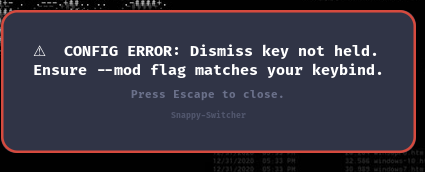
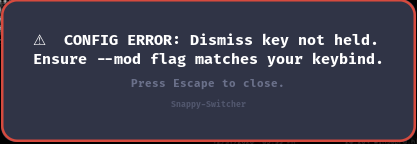
chore: release v4.0.0

diff --git a/src/main.c b/src/main.c
@@ -1,4 +1,4 @@
-/* src/main.c - Snappy Switcher Daemon (v2.0) */
+/* src/main.c - Snappy Switcher Daemon (v4.0) */
 #define _POSIX_C_SOURCE 200809L
 
 #include "backend.h"
@@ -949,7 +949,7 @@ static int run_daemon(const char *config_path) {
 }
 
 static void print_help(const char *prog) {
-  printf("Snappy Switcher v3.3.0 - A modular, Hyprland-driven window switcher "
+  printf("Snappy Switcher v4.0.0 - A modular, Hyprland-driven window switcher "
          "for Wayland\n\n");
   printf("Usage: %s [OPTION] | <command> [--mod <key>] [--workspace] "
          "[--silent] [--linear]\n\n",

diff --git a/README.md b/README.md
@@ -360,6 +360,40 @@ name = catppuccin-mocha.ini
 ```
 > If name doesnt match the file you made or left blank, it will switch to a **default** *ugly* theme
 
+<details>
+<summary><b>My Conf</b></summary>
+
+```ini
+[general]
+mode = context
+follow_monitor = true
+show_workspace_badge = true
+sticky_mode = false
+[theme]
+name = stormlight.ini
+border_width = 2
+corner_radius = 15
+[layout]
+card_width = 145
+card_height = 135
+card_gap = 10
+padding = 10
+max_cols = 5
+icon_size = 57
+icon_radius = 15       
+error_font_size = 11  
+[icons]
+theme = Tela-dracula
+fallback = Tela-dracula
+show_letter_fallback = true
+[font]
+family = FiraCode Nerd Font
+weight = Bold
+title_size = 10
+icon_letter_size = 24
+```
+</details>
+
 **[Full Configuration Documentation →](docs/CONFIGURATION.md)**
 
 ---
@@ -405,7 +439,10 @@ snappy-switcher next --silent --linear
 
 ### Config Error Banner
 
-If the `--mod` value doesn't match the key physically held when the switcher gains focus, a red CONFIG ERROR banner is displayed. Dismiss it with Escape or Enter.
+![Dismiss-Key(Error)](assets/config-error:dismisskey.png)
+![Modifier-Key(Error)](assets/config-error:modifier.png)
+
+You will see **CONFIG ERROR banner is displayed** if `bind` doesnt match with `--mod`
 
 | Scenario                             | Result                             |
 | --------------------------------------| ------------------------------------|